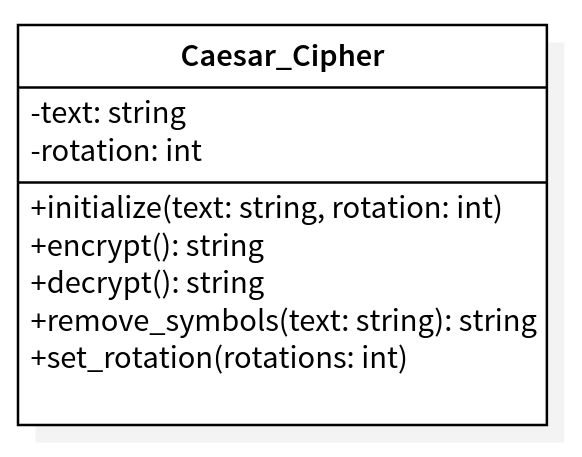
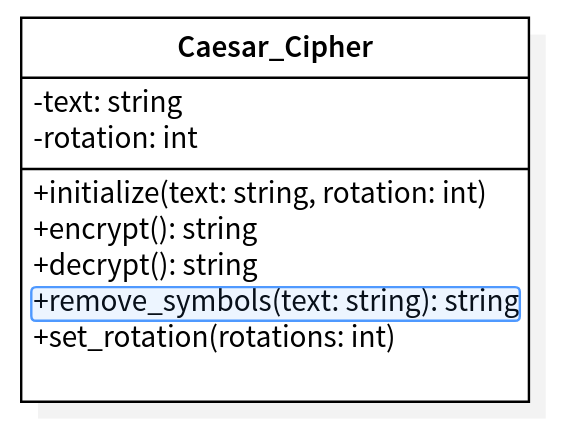
Modify class to accept '!' and '?'
UML and test modified to work with '!' and '?'. And, discard everything
else.

Changed region(s): [[0.0, 0.03, 0.968, 0.9607]]

diff --git a/spec/caesar_cipher_spec.rb b/spec/caesar_cipher_spec.rb
@@ -2,7 +2,7 @@
 
 RSpec.describe CaesarCipher do
   context %(Validate and filter user text input) do
-    test = CaesarCipher.new('Remove this ? symbol', 13)
+    test = CaesarCipher.new('Remove this $ symbol', 13)
     it %(should discard incompatible chars when creating object) do
       test.text.to eq('Remove this symbol')
     end
@@ -13,14 +13,20 @@ RSpec.describe CaesarCipher do
       test.rotation.to eq(4)
     end
   end
-  context %(Encrypts and decrypts text with a given shift) do
+  context %(Encrypts text with a given shift) do
     it %(Encrypts 'It works' with a shift of 10) do
       test = CaesarCipher.new('It works', 10)
       test.encrypt.to eq('Sd gybuc')
     end
-    it %(Encrypts a message with a shift of 10 and discards symbols) do
-      test = CaesarCipher.new('It works!', 10)
-      test.encrypt.to eq('Sd gybuc')
+    it %(Encrypts a message with a shift of 10 and discards incompatible symbols) do
+      test = CaesarCipher.new('It works!$', 10)
+      test.encrypt.to eq('Sd gybuc!')
+    end
+  end
+  context %(Decrypts text with a given shift) do
+    it %(Decrypts a message with a shift of 10) do
+      test = CaesarCipher.new('Sd gybuc!', 10)
+      test.decrypt.to eq('It works!')
     end
   end
 end

diff --git a/README.md b/README.md
@@ -7,7 +7,7 @@
 - GitFlow Workflow
 
 ## Project requirements
-- Only works with letters between a/A and z/Z. (Discard everything else)
+- Only works with letters between a/A and z/Z. And the symbols: '?' and '!' (Discard everything else)
 -	Accepts some text to encrypt and a number which defines the "shift factor"
 - "Shifts" the letters by X positions using the order of the alphabet (ABCDF)
 - Restrictions:
